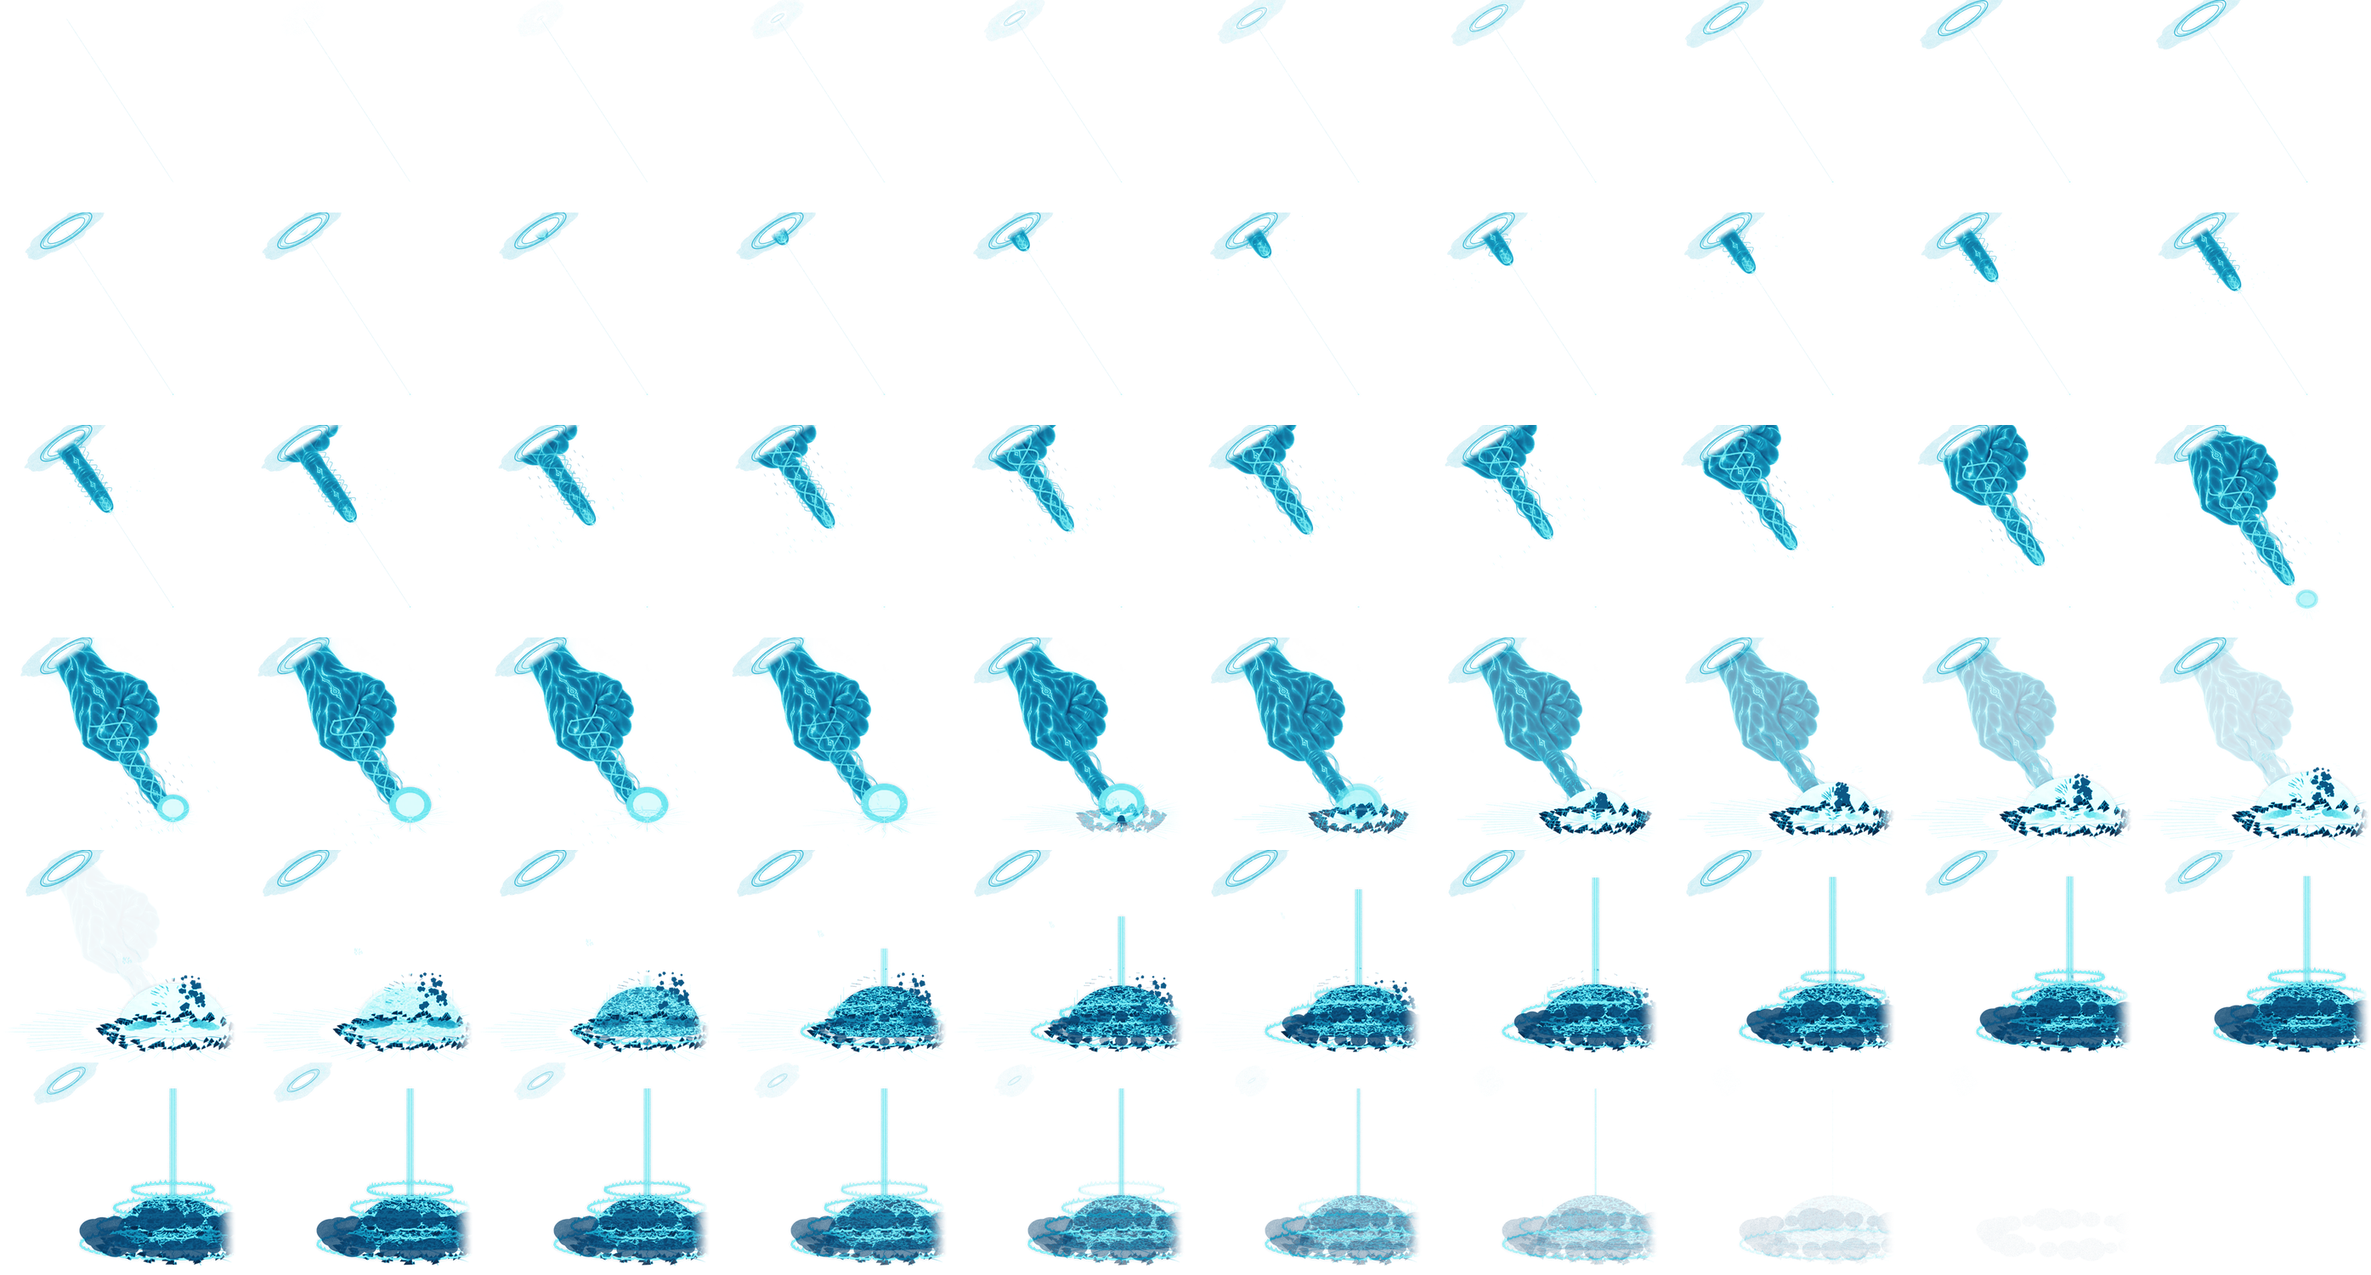
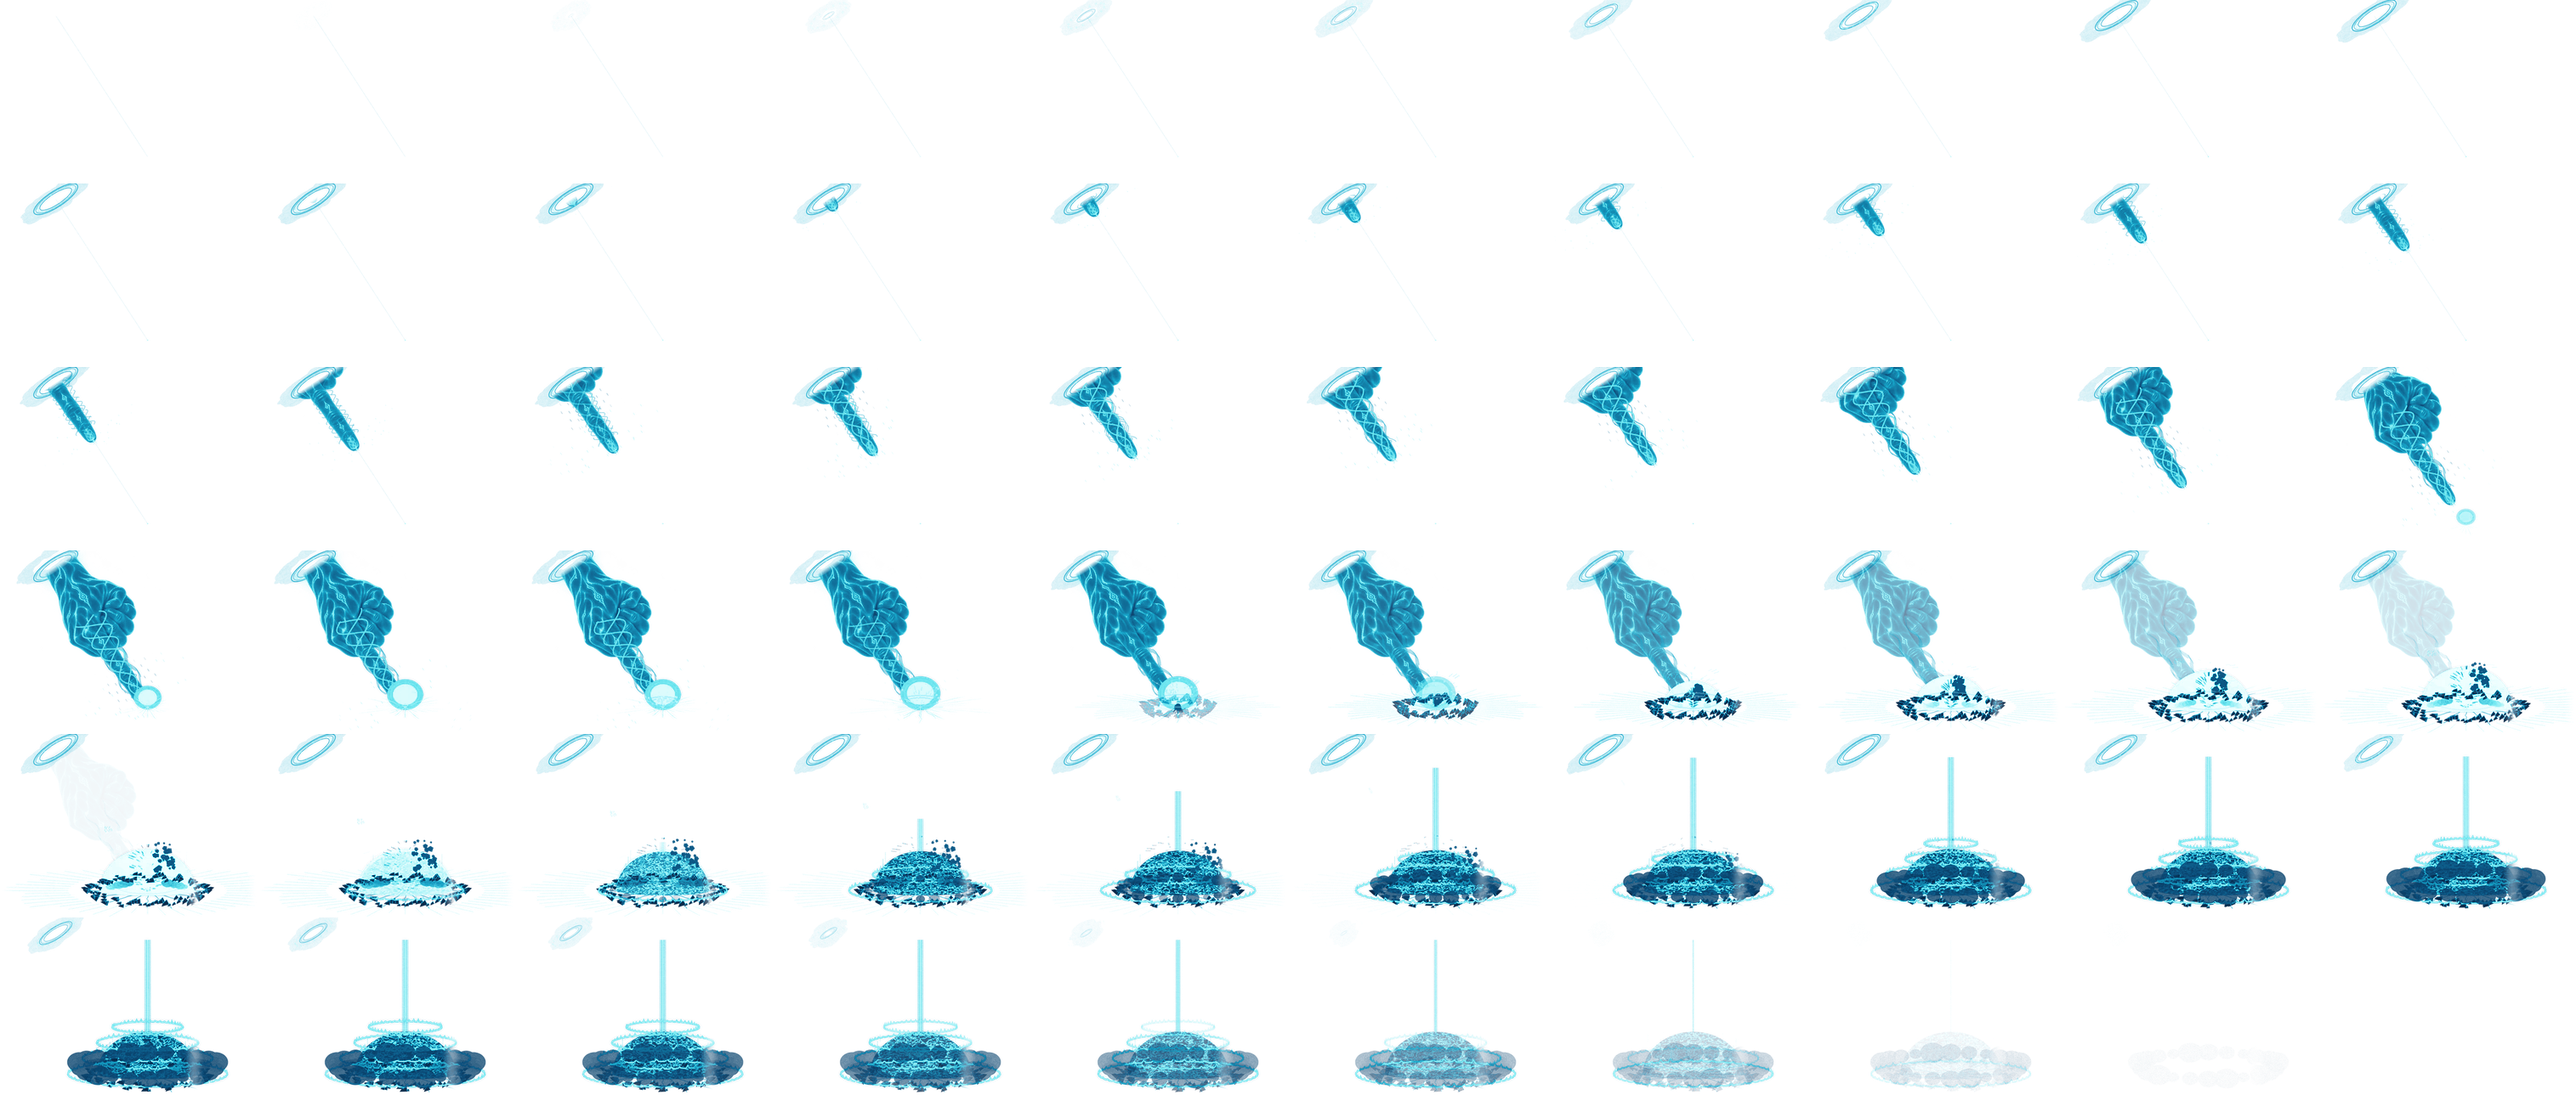
fix(vfx): Thiên Chỉ Hỏa/Thủy dùng khung rộng bên phải, không còn cắt vòm nổ

diff --git a/wwwroot/js/fire-fx.js b/wwwroot/js/fire-fx.js
@@ -29,7 +29,7 @@ const FIRE_SET_FX = {
   hon_nguyen_hoa:  ['cu-kiem-thien-giang-v2',    364,336, 186.9, 273,  1400, 189,   'ground'],
   // Đại Thừa: Thiên Chỉ hệ Hỏa (output/thien-chi-hoa-demo-v1, đổi màu từ v5) — bàn tay đỏ cam nhất chỉ lao chéo rồi nổ vòm; 60 khung · 2 giây, trúng khung 32; phần tử thứ 9 = số khung (mặc định 90),
   // thứ 10 = fitTop: số px đầu sheet được phép tràn khỏi mép trên. 11/2026: bộ Hỏa cao cấp để 0 — vòng ấn/trận pháp nằm sát mép trên sheet, tràn ra là mất cả đoạn hiệu ứng.
-  thai_so_hoa:     ['thien-chi-hoa-v1',          400,359, 291.6, 307.2, 1034, 180,   'ground', 60, 0],
+  thai_so_hoa:     ['thien-chi-hoa-v1',          303,216, 173.52, 184.32, 1034, 108,   'ground', 60, 0],
   // Độ Kiếp (Dịch Linh Ấn): Dịch Linh Ấn Hỏa + nổ vòm (output/dich-linh-an-hoa-vom-no-demo-v1), trúng khung 30;
   // anchorY thấp hơn Thiên Chỉ → vẫn hiển thị to hơn Đại Thừa (phạm vi to dần theo cấp chiêu) mà không cắt vòng ấn.
   hoa_do_kiep_active: ['dich-linh-an-hoa-v2',    384,346, 192,   294,    967, 120,   'ground', 60, 0],
@@ -48,7 +48,7 @@ const WATER_SET_FX = {
   hu_hai:               ['van-thuy-thien-tien-v1',240,150, 166.5,119.5, 31*1000/30,129, 'ground',60,0,28],
   hon_nguyen_thuy:      ['hon_nguyen_thuy',      224,207, 115.0154,168.1875,28*1000/30, 116.3077, 'ground', 60],
   // 11/2026: fitTop 0 — vòng ấn nằm sát đỉnh sheet, cho tràn mép trên là mất đoạn hiệu ứng.
-  thai_so_thuy:         ['thai_so_thuy',         279,250, 203.391, 213.9276,1034, 125.55,   'ground', 60,0],
+  thai_so_thuy:         ['thai_so_thuy',         303,216, 173.52, 184.32,1034, 108,   'ground', 60,0],
   thuy_do_kiep_active:  ['thuy_do_kiep_active',  278,250, 139,     212.4277, 967,  86.875,  'ground', 60,0],
   thuy_chan_tien_active:['thuy_chan_tien_active',289,241, 144.5,   209.1778, 767,  93.2258, 'ground', 60,0],
 };
